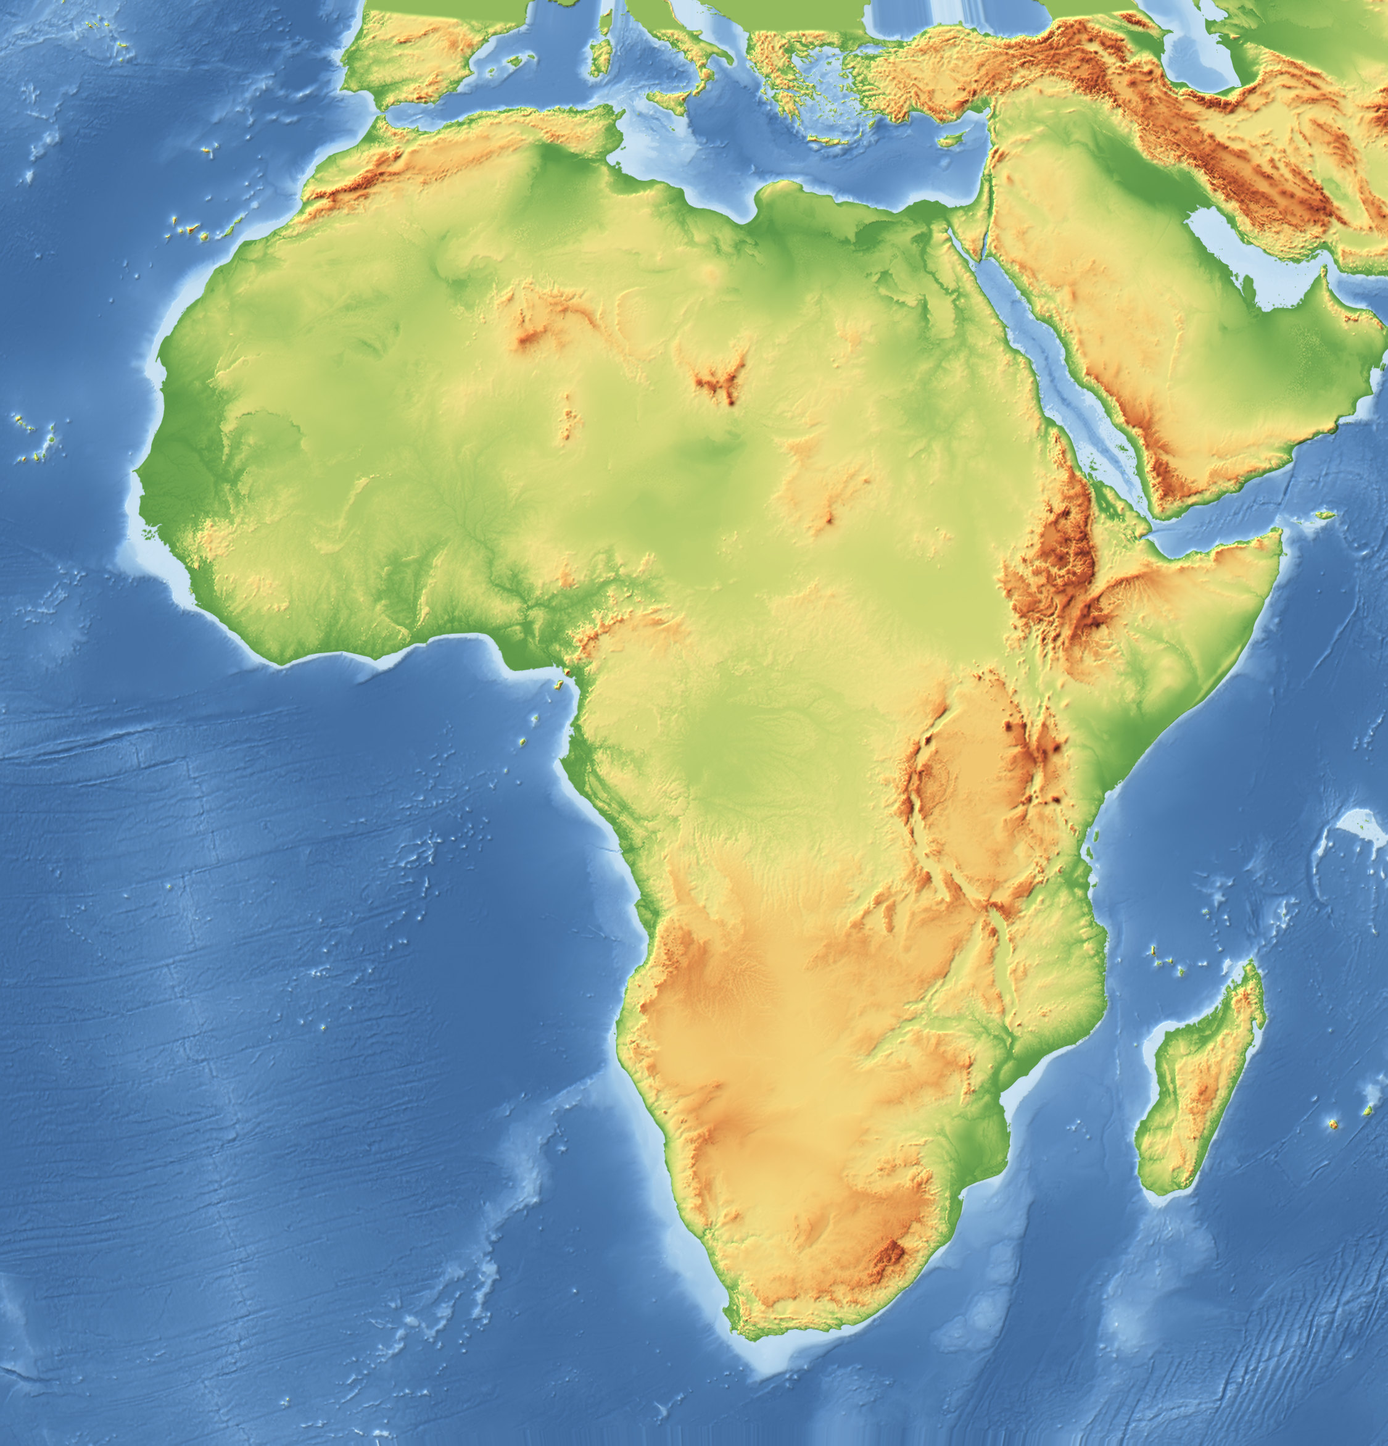
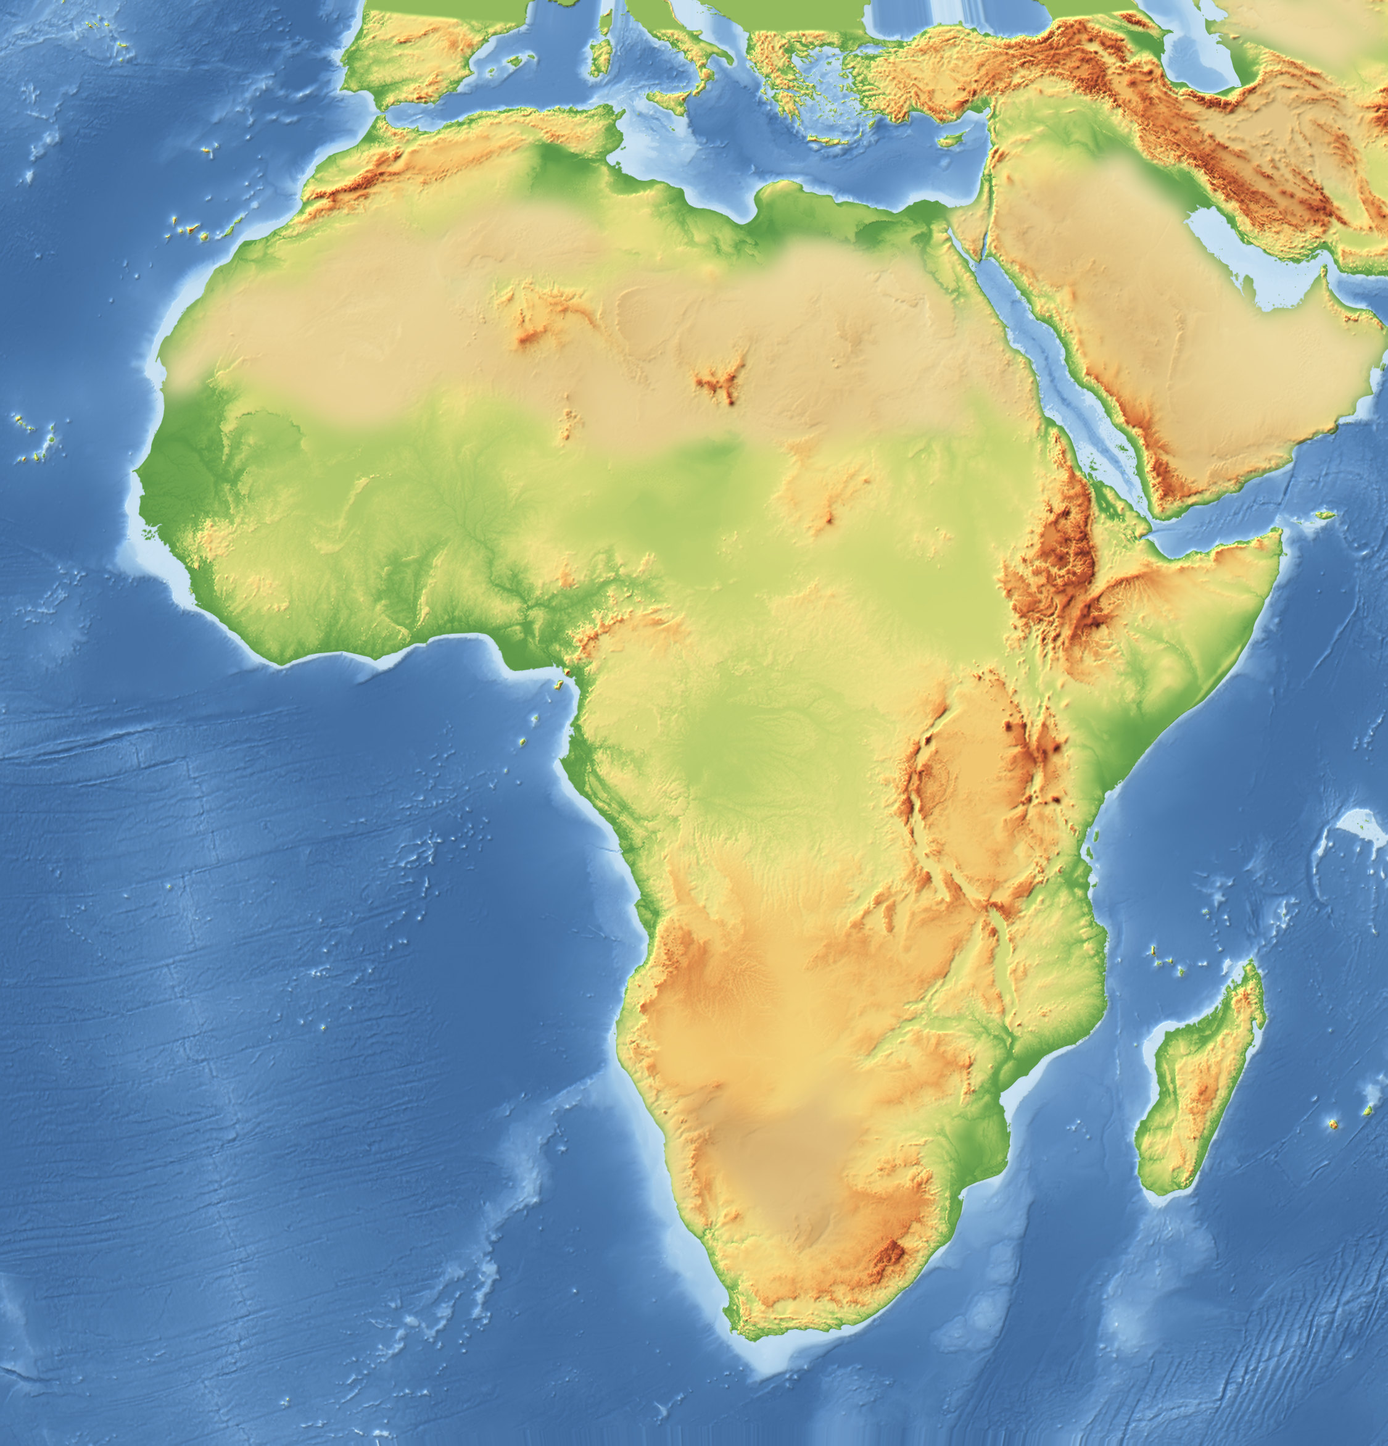
Color desiertos

diff --git a/europa-fisico.html b/europa-fisico.html
@@ -729,7 +729,7 @@
       <p>Incluye, a diferencia de la versión anterior, el borde occidental de Rusia hasta los <strong>Urales</strong> y el <strong>Cáucaso</strong> — son accidentes geográficos de Europa aunque el país no forme parte de nuestro catálogo por países.</p>
       <p><strong>Nuevo:</strong> esta página reúne cordilleras, ríos, lagos, mares y accidentes costeros en un único mapa completo. Usa el panel de arriba para adaptarlo antes de imprimir. Si prefieres una vista más simple centrada solo en un aspecto, están también <a href="europa-hidrografia.html">Hidrografía</a> y <a href="europa-costeros.html">Accidentes costeros</a> por separado.</p>
       <h2>Sobre los colores de relieve</h2>
-      <p>El color del relieve es <strong>real</strong>: se calcula a partir del modelo de elevación y batimetría ETOPO 2022 (NOAA), con una paleta hipsométrica (verde = tierras bajas, amarillo y naranja = altitud media, marrón = alta montaña) y sombreado del terreno. En el mar, el azul oscurece con la profundidad. Los datos tienen una resolución de unos 3,7 km, así que los detalles pequeños (islotes, estuarios) pueden aparecer simplificados. En los bordes del mapa más allá de los datos (extremo oriental y norte) el terreno se muestra plano.</p>
+      <p>El color del relieve es <strong>real</strong>: se calcula a partir del modelo de elevación y batimetría ETOPO 2022 (NOAA), con una paleta hipsométrica (verde = tierras bajas, amarillo y naranja = altitud media, marrón = alta montaña) y sombreado del terreno. Las zonas desérticas se tiñen de tonos arena en lugar de verde. En el mar, el azul oscurece con la profundidad. Los datos tienen una resolución de unos 3,7 km, así que los detalles pequeños (islotes, estuarios) pueden aparecer simplificados. En los bordes del mapa más allá de los datos (extremo oriental y norte) el terreno se muestra plano.</p>
       <h2>Elementos incluidos</h2>
       <ul>
         <li>Cordilleras con texto curvo: Alpes, Alpes de Transilvania, Pirineos, Cárpatos, Balcanes, Dináricos, Apeninos, Sistema Central, Montes Escandinavos, Montes Grampianos, Montes Peninos, Alpes de Transilvania, Montes Pindo, Colinas Valdai, Urales, Cáucaso</li>

diff --git a/europa-costeros.html b/europa-costeros.html
@@ -589,7 +589,7 @@
       <p>Incluye, a diferencia de la versión anterior, el borde occidental de Rusia hasta los <strong>Urales</strong> y el <strong>Cáucaso</strong> — son accidentes geográficos de Europa aunque el país no forme parte de nuestro catálogo por países.</p>
       <p><strong>Nuevo:</strong> usa el panel de arriba para adaptar el mapa antes de imprimir — quita accidentes, islas o penínsulas que no necesites para tu clase, o vuelve a "Completo" para verlo todo. Si necesitas relieve o ríos, tienes esas categorías en las páginas <a href="europa-fisico.html">Físico</a> y <a href="europa-hidrografia.html">Hidrografía</a>.</p>
       <h2>Sobre los colores de relieve</h2>
-      <p>El color del relieve es <strong>real</strong>: se calcula a partir del modelo de elevación y batimetría ETOPO 2022 (NOAA), con una paleta hipsométrica (verde = tierras bajas, amarillo y naranja = altitud media, marrón = alta montaña) y sombreado del terreno. En el mar, el azul oscurece con la profundidad. Los datos tienen una resolución de unos 3,7 km, así que los detalles pequeños (islotes, estuarios) pueden aparecer simplificados. En los bordes del mapa más allá de los datos (extremo oriental y norte) el terreno se muestra plano.</p>
+      <p>El color del relieve es <strong>real</strong>: se calcula a partir del modelo de elevación y batimetría ETOPO 2022 (NOAA), con una paleta hipsométrica (verde = tierras bajas, amarillo y naranja = altitud media, marrón = alta montaña) y sombreado del terreno. Las zonas desérticas se tiñen de tonos arena en lugar de verde. En el mar, el azul oscurece con la profundidad. Los datos tienen una resolución de unos 3,7 km, así que los detalles pequeños (islotes, estuarios) pueden aparecer simplificados. En los bordes del mapa más allá de los datos (extremo oriental y norte) el terreno se muestra plano.</p>
       <h2>Elementos incluidos</h2>
       <ul>
         <li>Estrechos, cabos y golfos (22): Gibraltar, Bósforo, Dardanelos, Canal de la Mancha, Golfo de Vizcaya, Golfo de Cádiz y más</li>

diff --git a/europa-hidrografia.html b/europa-hidrografia.html
@@ -581,7 +581,7 @@
       <p>Incluye, a diferencia de la versión anterior, el borde occidental de Rusia hasta los <strong>Urales</strong> y el <strong>Cáucaso</strong> — son accidentes geográficos de Europa aunque el país no forme parte de nuestro catálogo por países.</p>
       <p><strong>Nuevo:</strong> usa el panel de arriba para adaptar el mapa antes de imprimir — quita ríos o lagos que no necesites para tu clase, o vuelve a "Completo" para verlo todo. Si necesitas relieve o accidentes costeros, tienes esas categorías en las páginas <a href="europa-fisico.html">Físico</a> y <a href="europa-costeros.html">Accidentes costeros</a>.</p>
       <h2>Sobre los colores de relieve</h2>
-      <p>El color del relieve es <strong>real</strong>: se calcula a partir del modelo de elevación y batimetría ETOPO 2022 (NOAA), con una paleta hipsométrica (verde = tierras bajas, amarillo y naranja = altitud media, marrón = alta montaña) y sombreado del terreno. En el mar, el azul oscurece con la profundidad. Los datos tienen una resolución de unos 3,7 km, así que los detalles pequeños (islotes, estuarios) pueden aparecer simplificados. En los bordes del mapa más allá de los datos (extremo oriental y norte) el terreno se muestra plano.</p>
+      <p>El color del relieve es <strong>real</strong>: se calcula a partir del modelo de elevación y batimetría ETOPO 2022 (NOAA), con una paleta hipsométrica (verde = tierras bajas, amarillo y naranja = altitud media, marrón = alta montaña) y sombreado del terreno. Las zonas desérticas se tiñen de tonos arena en lugar de verde. En el mar, el azul oscurece con la profundidad. Los datos tienen una resolución de unos 3,7 km, así que los detalles pequeños (islotes, estuarios) pueden aparecer simplificados. En los bordes del mapa más allá de los datos (extremo oriental y norte) el terreno se muestra plano.</p>
       <h2>Elementos incluidos</h2>
       <ul>
         <li>Ríos (40): Volga, Danubio, Rin, Loira, Tajo y muchos más, cada uno seleccionable de forma individual</li>

diff --git a/europa-relieve.html b/europa-relieve.html
@@ -554,7 +554,7 @@
       <p>Incluye, a diferencia de la versión anterior, el borde occidental de Rusia hasta los <strong>Urales</strong> y el <strong>Cáucaso</strong> — son accidentes geográficos de Europa aunque el país no forme parte de nuestro catálogo por países.</p>
       <p><strong>Nuevo:</strong> usa el panel de arriba para adaptar el mapa antes de imprimirlo — quita ríos o lagos que no necesites para tu clase, o activa el modo "Completo" para ver todo lo disponible.</p>
       <h2>Sobre los colores de relieve</h2>
-      <p>El color del relieve es <strong>real</strong>: se calcula a partir del modelo de elevación y batimetría ETOPO 2022 (NOAA), con una paleta hipsométrica (verde = tierras bajas, amarillo y naranja = altitud media, marrón = alta montaña) y sombreado del terreno. En el mar, el azul oscurece con la profundidad. Los datos tienen una resolución de unos 3,7 km, así que los detalles pequeños (islotes, estuarios) pueden aparecer simplificados. En los bordes del mapa más allá de los datos (extremo oriental y norte) el terreno se muestra plano.</p>
+      <p>El color del relieve es <strong>real</strong>: se calcula a partir del modelo de elevación y batimetría ETOPO 2022 (NOAA), con una paleta hipsométrica (verde = tierras bajas, amarillo y naranja = altitud media, marrón = alta montaña) y sombreado del terreno. Las zonas desérticas se tiñen de tonos arena en lugar de verde. En el mar, el azul oscurece con la profundidad. Los datos tienen una resolución de unos 3,7 km, así que los detalles pequeños (islotes, estuarios) pueden aparecer simplificados. En los bordes del mapa más allá de los datos (extremo oriental y norte) el terreno se muestra plano.</p>
       <h2>Elementos incluidos</h2>
       <ul>
         <li>Cordilleras con texto curvo: Alpes, Alpes de Transilvania, Pirineos, Cárpatos, Balcanes, Dináricos, Apeninos, Sistema Central, Montes Escandinavos, Montes Grampianos, Montes Peninos, Alpes de Transilvania, Montes Pindo, Colinas Valdai, Urales, Cáucaso</li>

diff --git a/oceania-fisico.html b/oceania-fisico.html
@@ -476,7 +476,7 @@
       <p>Mapa físico de Oceanía en el mismo formato de atlas clásico que Europa: sin países ni fronteras, con las cordilleras rotuladas sobre su cresta, las grandes regiones físicas (desiertos, cuencas, mesetas) y una selección de ríos, lagos, islas, penínsulas y accidentes costeros — de Nueva Guinea a Nueva Zelanda.</p>
       <p><strong>Proyección:</strong> este mapa usa la proyección cónica conforme de Lambert, habitual en atlas para regiones anchas: conserva bien las formas y las distancias son casi exactas en las latitudes centrales. Los meridianos convergen hacia el polo y los paralelos se curvan. La barra de escala es exacta alrededor de 20° S y orientativa en el resto del mapa.</p>
       <h2>Sobre los colores de relieve</h2>
-      <p>El color del relieve es <strong>real</strong>: se calcula a partir del modelo de elevación y batimetría ETOPO 2022 (NOAA), con una paleta hipsométrica (verde = tierras bajas, amarillo y naranja = altitud media, marrón = alta montaña) y sombreado del terreno. En el mar, el azul oscurece con la profundidad. Los datos tienen una resolución de unos 7 km, así que los detalles pequeños (islotes, estuarios) pueden aparecer simplificados.</p>
+      <p>El color del relieve es <strong>real</strong>: se calcula a partir del modelo de elevación y batimetría ETOPO 2022 (NOAA), con una paleta hipsométrica (verde = tierras bajas, amarillo y naranja = altitud media, marrón = alta montaña) y sombreado del terreno. Las zonas desérticas se tiñen de tonos arena en lugar de verde. En el mar, el azul oscurece con la profundidad. Los datos tienen una resolución de unos 7 km, así que los detalles pequeños (islotes, estuarios) pueden aparecer simplificados.</p>
       <h2>Elementos incluidos</h2>
       <ul>
         <li>Cordilleras: Gran Cordillera Divisoria, Cordillera Central de Nueva Guinea, Alpes Neozelandeses, Montes MacDonnell, Hamersley, Flinders y Kimberley</li>

diff --git a/asia-fisico.html b/asia-fisico.html
@@ -641,7 +641,7 @@
       <p>Mapa físico de Asia rediseñado siguiendo el mismo formato de atlas clásico que Europa: sin países ni fronteras, con cordilleras identificadas por su nombre en texto curvo sobre la cresta, grandes regiones físicas (mesetas, desiertos) y una selección de ríos y lagos principales — de Turquía a Japón.</p>
       <p><strong>Proyección:</strong> este mapa usa la proyección cónica conforme de Lambert, habitual en atlas para continentes anchos: conserva bien las formas y las distancias son casi exactas en las latitudes centrales. Los meridianos convergen hacia el polo y los paralelos se curvan.</p>
       <h2>Sobre los colores de relieve</h2>
-      <p>El color del relieve es <strong>real</strong>: se calcula a partir del modelo de elevación y batimetría ETOPO 2022 (NOAA), con una paleta hipsométrica (verde = tierras bajas, amarillo y naranja = altitud media, marrón = alta montaña) y sombreado del terreno. En el mar, el azul oscurece con la profundidad. Los datos tienen una resolución de unos 11 km, así que los detalles pequeños (islotes, estuarios) pueden aparecer simplificados.</p>
+      <p>El color del relieve es <strong>real</strong>: se calcula a partir del modelo de elevación y batimetría ETOPO 2022 (NOAA), con una paleta hipsométrica (verde = tierras bajas, amarillo y naranja = altitud media, marrón = alta montaña) y sombreado del terreno. Las zonas desérticas se tiñen de tonos arena en lugar de verde. En el mar, el azul oscurece con la profundidad. Los datos tienen una resolución de unos 11 km, así que los detalles pequeños (islotes, estuarios) pueden aparecer simplificados.</p>
       <h2>Elementos incluidos</h2>
       <ul>
         <li>Cordilleras: Himalaya, Karakórum, Tian Shan, Altái, Montes Zagros, Elburz, borde de la Meseta del Tíbet, Urales (oriente)</li>

diff --git a/asia-relieve.html b/asia-relieve.html
@@ -233,7 +233,7 @@
       <p>Mapa físico de Asia rediseñado siguiendo el mismo formato de atlas clásico que Europa: sin países ni fronteras, con cordilleras identificadas por su nombre en texto curvo sobre la cresta, grandes regiones físicas (mesetas, desiertos) y una selección de ríos y lagos principales — de Turquía a Japón.</p>
       <p><strong>Proyección:</strong> este mapa usa la proyección cónica conforme de Lambert, habitual en atlas para continentes anchos: conserva bien las formas y las distancias son casi exactas en las latitudes centrales. Los meridianos convergen hacia el polo y los paralelos se curvan.</p>
       <h2>Sobre los colores de relieve</h2>
-      <p>El color del relieve es <strong>real</strong>: se calcula a partir del modelo de elevación y batimetría ETOPO 2022 (NOAA), con una paleta hipsométrica (verde = tierras bajas, amarillo y naranja = altitud media, marrón = alta montaña) y sombreado del terreno. En el mar, el azul oscurece con la profundidad. Los datos tienen una resolución de unos 11 km, así que los detalles pequeños (islotes, estuarios) pueden aparecer simplificados.</p>
+      <p>El color del relieve es <strong>real</strong>: se calcula a partir del modelo de elevación y batimetría ETOPO 2022 (NOAA), con una paleta hipsométrica (verde = tierras bajas, amarillo y naranja = altitud media, marrón = alta montaña) y sombreado del terreno. Las zonas desérticas se tiñen de tonos arena en lugar de verde. En el mar, el azul oscurece con la profundidad. Los datos tienen una resolución de unos 11 km, así que los detalles pequeños (islotes, estuarios) pueden aparecer simplificados.</p>
       <h2>Elementos incluidos</h2>
       <ul>
         <li>Cordilleras: Himalaya, Karakórum, Tian Shan, Altái, Montes Zagros, Elburz, borde de la Meseta del Tíbet, Urales (oriente)</li>

diff --git a/america-fisico.html b/america-fisico.html
@@ -770,7 +770,7 @@
       <p>Mapa físico de América rediseñado siguiendo el mismo formato de atlas clásico que Europa: sin países ni fronteras, con cordilleras identificadas por su nombre en texto curvo sobre la cresta, regiones físicas y una selección de ríos, lagos y mares principales — de Alaska a Tierra del Fuego.</p>
       <p><strong>Proyección:</strong> este mapa usa la proyección azimutal equivalente de Lambert, que conserva las áreas y mantiene bien las formas en todo el continente. Los meridianos y paralelos se curvan, como en un globo.</p>
       <h2>Sobre los colores de relieve</h2>
-      <p>El color del relieve es <strong>real</strong>: se calcula a partir del modelo de elevación y batimetría ETOPO 2022 (NOAA), con una paleta hipsométrica (verde = tierras bajas, amarillo y naranja = altitud media, marrón = alta montaña) y sombreado del terreno. En el mar, el azul oscurece con la profundidad. Los datos tienen una resolución de unos 7 km, así que los detalles pequeños (islotes, estuarios) pueden aparecer simplificados.</p>
+      <p>El color del relieve es <strong>real</strong>: se calcula a partir del modelo de elevación y batimetría ETOPO 2022 (NOAA), con una paleta hipsométrica (verde = tierras bajas, amarillo y naranja = altitud media, marrón = alta montaña) y sombreado del terreno. Las zonas desérticas se tiñen de tonos arena en lugar de verde. En el mar, el azul oscurece con la profundidad. Los datos tienen una resolución de unos 7 km, así que los detalles pequeños (islotes, estuarios) pueden aparecer simplificados.</p>
       <h2>Elementos incluidos</h2>
       <ul>
         <li>Cordilleras: Montañas Rocosas, Sierra Madre Occidental y Oriental, Apalaches, Andes, Macizo de las Guayanas, Macizo Brasileño, Sierra Nevada</li>

diff --git a/america-relieve.html b/america-relieve.html
@@ -223,7 +223,7 @@
       <p>Mapa físico de América rediseñado siguiendo el mismo formato de atlas clásico que Europa: sin países ni fronteras, con cordilleras identificadas por su nombre en texto curvo sobre la cresta, regiones físicas y una selección de ríos, lagos y mares principales — de Alaska a Tierra del Fuego.</p>
       <p><strong>Proyección:</strong> este mapa usa la proyección azimutal equivalente de Lambert, que conserva las áreas y mantiene bien las formas en todo el continente. Los meridianos y paralelos se curvan, como en un globo.</p>
       <h2>Sobre los colores de relieve</h2>
-      <p>El color del relieve es <strong>real</strong>: se calcula a partir del modelo de elevación y batimetría ETOPO 2022 (NOAA), con una paleta hipsométrica (verde = tierras bajas, amarillo y naranja = altitud media, marrón = alta montaña) y sombreado del terreno. En el mar, el azul oscurece con la profundidad. Los datos tienen una resolución de unos 7 km, así que los detalles pequeños (islotes, estuarios) pueden aparecer simplificados.</p>
+      <p>El color del relieve es <strong>real</strong>: se calcula a partir del modelo de elevación y batimetría ETOPO 2022 (NOAA), con una paleta hipsométrica (verde = tierras bajas, amarillo y naranja = altitud media, marrón = alta montaña) y sombreado del terreno. Las zonas desérticas se tiñen de tonos arena en lugar de verde. En el mar, el azul oscurece con la profundidad. Los datos tienen una resolución de unos 7 km, así que los detalles pequeños (islotes, estuarios) pueden aparecer simplificados.</p>
       <h2>Elementos incluidos</h2>
       <ul>
         <li>Cordilleras: Montañas Rocosas, Sierra Madre Occidental y Oriental, Apalaches, Andes, Macizo de las Guayanas, Macizo Brasileño, Sierra Nevada</li>

diff --git a/africa-fisico.html b/africa-fisico.html
@@ -590,7 +590,7 @@
       <p>Mapa físico de África rediseñado siguiendo el mismo formato de atlas clásico que Europa: sin países ni fronteras, con cordilleras identificadas por su nombre en texto curvo sobre la cresta, grandes regiones físicas (desiertos, cuencas) y una selección de ríos y lagos principales.</p>
       <p><strong>Proyección:</strong> este mapa usa la proyección azimutal equivalente de Lambert, que conserva las áreas y mantiene bien las formas en todo el continente. Los meridianos y paralelos se curvan, como en un globo.</p>
       <h2>Sobre los colores de relieve</h2>
-      <p>El color del relieve es <strong>real</strong>: se calcula a partir del modelo de elevación y batimetría ETOPO 2022 (NOAA), con una paleta hipsométrica (verde = tierras bajas, amarillo y naranja = altitud media, marrón = alta montaña) y sombreado del terreno. En el mar, el azul oscurece con la profundidad. Los datos tienen una resolución de unos 7 km, así que los detalles pequeños (islotes, estuarios) pueden aparecer simplificados.</p>
+      <p>El color del relieve es <strong>real</strong>: se calcula a partir del modelo de elevación y batimetría ETOPO 2022 (NOAA), con una paleta hipsométrica (verde = tierras bajas, amarillo y naranja = altitud media, marrón = alta montaña) y sombreado del terreno. Las zonas desérticas se tiñen de tonos arena en lugar de verde. En el mar, el azul oscurece con la profundidad. Los datos tienen una resolución de unos 7 km, así que los detalles pequeños (islotes, estuarios) pueden aparecer simplificados.</p>
       <h2>Elementos incluidos</h2>
       <ul>
         <li>Cordilleras: Atlas, Tierras Altas Etíopes, Drakensberg, Tierras Altas de Camerún, Ahaggar, Tibesti, Aïr</li>

diff --git a/africa-relieve.html b/africa-relieve.html
@@ -219,7 +219,7 @@
       <p>Mapa físico de África rediseñado siguiendo el mismo formato de atlas clásico que Europa: sin países ni fronteras, con cordilleras identificadas por su nombre en texto curvo sobre la cresta, grandes regiones físicas (desiertos, cuencas) y una selección de ríos y lagos principales.</p>
       <p><strong>Proyección:</strong> este mapa usa la proyección azimutal equivalente de Lambert, que conserva las áreas y mantiene bien las formas en todo el continente. Los meridianos y paralelos se curvan, como en un globo.</p>
       <h2>Sobre los colores de relieve</h2>
-      <p>El color del relieve es <strong>real</strong>: se calcula a partir del modelo de elevación y batimetría ETOPO 2022 (NOAA), con una paleta hipsométrica (verde = tierras bajas, amarillo y naranja = altitud media, marrón = alta montaña) y sombreado del terreno. En el mar, el azul oscurece con la profundidad. Los datos tienen una resolución de unos 7 km, así que los detalles pequeños (islotes, estuarios) pueden aparecer simplificados.</p>
+      <p>El color del relieve es <strong>real</strong>: se calcula a partir del modelo de elevación y batimetría ETOPO 2022 (NOAA), con una paleta hipsométrica (verde = tierras bajas, amarillo y naranja = altitud media, marrón = alta montaña) y sombreado del terreno. Las zonas desérticas se tiñen de tonos arena en lugar de verde. En el mar, el azul oscurece con la profundidad. Los datos tienen una resolución de unos 7 km, así que los detalles pequeños (islotes, estuarios) pueden aparecer simplificados.</p>
       <h2>Elementos incluidos</h2>
       <ul>
         <li>Cordilleras: Atlas, Tierras Altas Etíopes, Drakensberg, Tierras Altas de Camerún, Ahaggar, Tibesti, Aïr</li>
